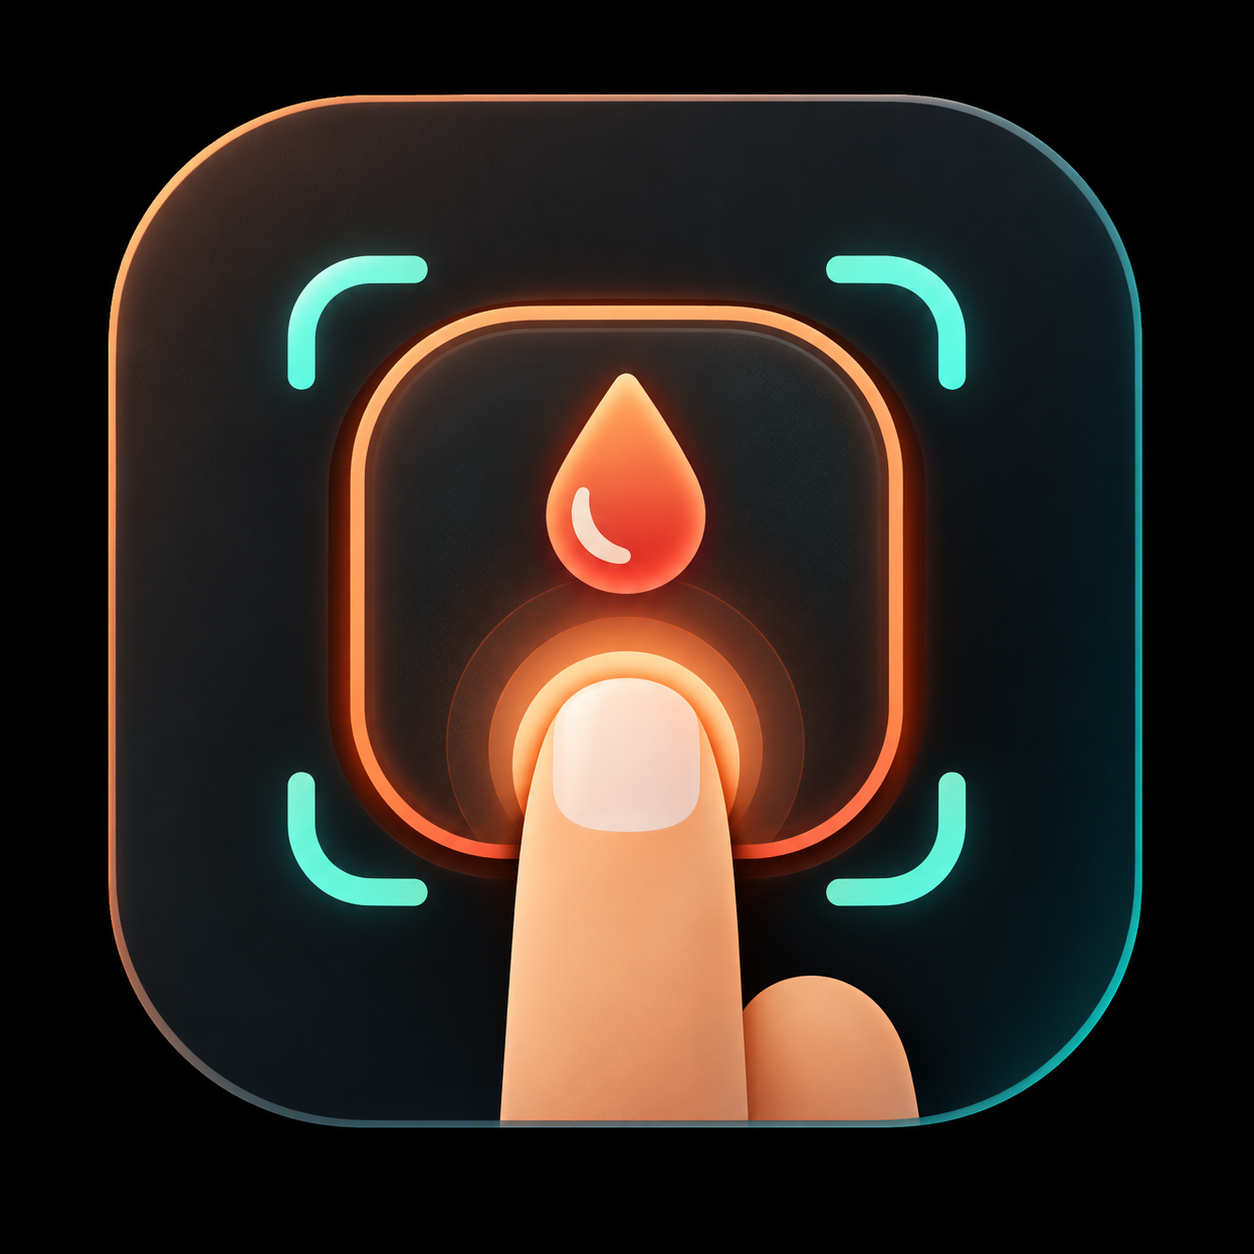
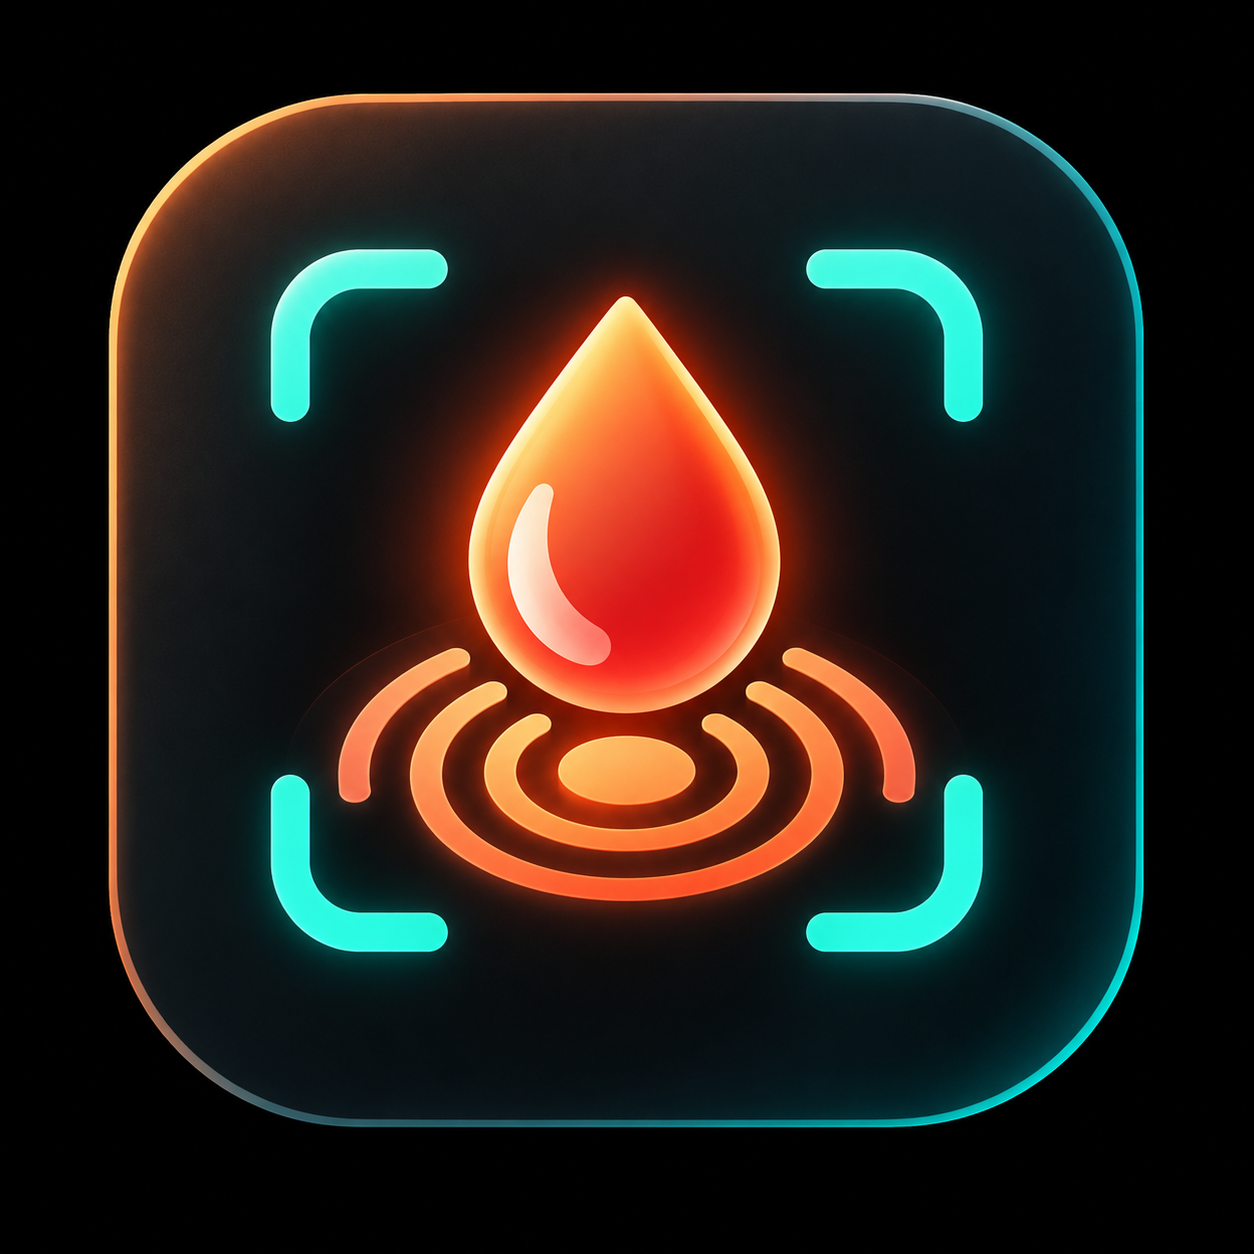
style: atualiza icone oficial do glicoponto

diff --git a/vite.config.ts b/vite.config.ts
@@ -11,9 +11,9 @@ export default defineConfig({
       name: 'Glicoponto', short_name: 'Glicoponto', description: 'Acompanhamento contextual de glicemia',
       start_url: '/', scope: '/', display: 'standalone', lang: 'pt-BR', theme_color: '#11100f', background_color: '#11100f',
       icons: [
-        { src: '/icon-192.png', sizes: '192x192', type: 'image/png' },
-        { src: '/icon-512.png', sizes: '512x512', type: 'image/png' },
-        { src: '/icon-maskable-512.png', sizes: '512x512', type: 'image/png', purpose: 'maskable' },
+        { src: '/icon-192-v2.png', sizes: '192x192', type: 'image/png' },
+        { src: '/icon-512-v2.png', sizes: '512x512', type: 'image/png' },
+        { src: '/icon-maskable-512-v2.png', sizes: '512x512', type: 'image/png', purpose: 'maskable' },
       ],
     },
     workbox: { navigateFallback: '/index.html', navigateFallbackDenylist: [/^\/assets\//] },

diff --git a/index.html b/index.html
@@ -4,8 +4,8 @@
     <meta charset="UTF-8" />
     <meta name="viewport" content="width=device-width, initial-scale=1" />
     <meta name="theme-color" content="#11100f" />
-    <link rel="icon" href="/favicon.png" type="image/png" />
-    <link rel="apple-touch-icon" href="/apple-touch-icon.png" />
+    <link rel="icon" href="/favicon-v2.png" type="image/png" />
+    <link rel="apple-touch-icon" href="/apple-touch-icon-v2.png" />
     <title>Glicoponto</title>
   </head>
   <body><div id="root"></div><script type="module" src="/src/main.tsx"></script></body>
